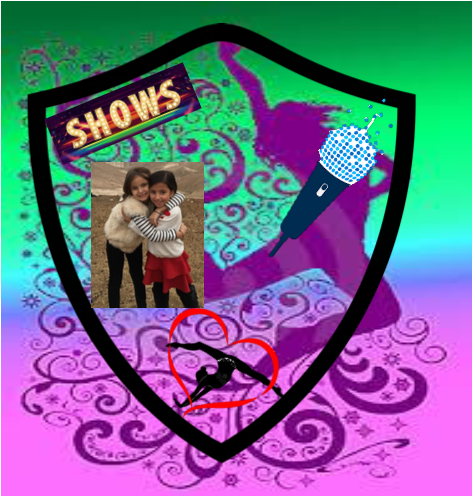
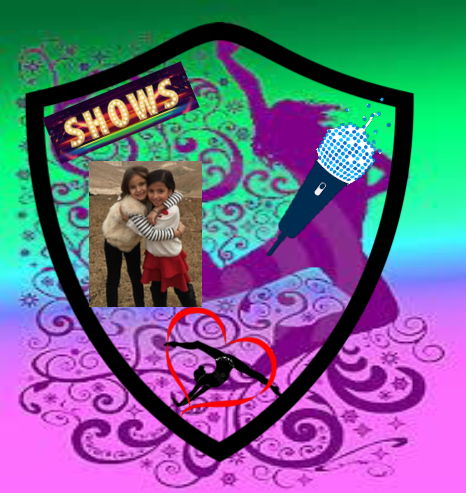
aja

diff --git a/Escudos/Escuado Abuela Elena/EscudoAbueElena.html b/Escudos/Escuado Abuela Elena/EscudoAbueElena.html
@@ -23,18 +23,18 @@ body,td,th {
 	font-family: "Times New Roman";
 }
 body {
-	background-image: url(../../../fondo-de-papel-viejo-de-la-vendimia-del-grunge_1373-431.jpg);
+	background-image: url("http://danalevy.github.io/Inicio/fondo-de-papel-viejo-de-la-vendimia-del-grunge_1373-431.jpg");
 }
 	-->
 	</STYLE>
+	<title>Abuela Elena</title>
 </HEAD>
 <BODY LANG="es-VE" DIR="LTR">
 <P STYLE="margin-bottom: 0.11in"><IMG SRC="EscudoAbueElena.png" NAME="Picture 7" ALIGN=BOTTOM WIDTH=636 HEIGHT=504 BORDER=0></P>
-<P STYLE="margin-bottom: 0.11in">&nbsp;</P>
-<table width="621" border="1">
+<table width="635" border="1">
   <tbody>
     <tr>
-      <td width="611"><p align="justify">Mi abuela Elena es la mujer más tranquila que conozco. Eso era lo que quería expresar al crear un escudo que la represente. Amante de los paisajes, enamorada de su país natal. Eso explica el fondo del escudo, un paisaje que quita el aliento cuando lo miras y que por supuesto pertenece al país que ella tanto ama.  Un don que ella tiene, es que nos hace sentir a cada uno de los que formamos parte de su familia que somos prioridad para ella. Por eso la foto familiar en el centro, sin ser ella el foco de esta. Ella se oculta entre la familia, evitando ser el centro de atención, sin embargo, representando la piedra fundamental de todos nosotros. Debajo de la foto se divisa la imagen de la Jalá, las velas y el vino, símbolos directos de lo que representa el Shabbat y las festividades judías. Mi abuela se esmera para que cada shabat, y cada festividad la disfrutemos y nos reunamos toda su familia.
+      <td width="625"><p align="justify">Mi abuela Elena es la mujer más tranquila que conozco. Eso era lo que quería expresar al crear un escudo que la represente. Amante de los paisajes, enamorada de su país natal. Eso explica el fondo del escudo, un paisaje que quita el aliento cuando lo miras y que por supuesto pertenece al país que ella tanto ama.  Un don que ella tiene, es que nos hace sentir a cada uno de los que formamos parte de su familia que somos prioridad para ella. Por eso la foto familiar en el centro, sin ser ella el foco de esta. Ella se oculta entre la familia, evitando ser el centro de atención, sin embargo, representando la piedra fundamental de todos nosotros. Debajo de la foto se divisa la imagen de la Jalá, las velas y el vino, símbolos directos de lo que representa el Shabbat y las festividades judías. Mi abuela se esmera para que cada shabat, y cada festividad la disfrutemos y nos reunamos toda su familia.
       
         </p>
         <p align="justify">En la parte superior del escudo coloqué dos cosas que mi abuela Elena ama hacer; el avión a mano izquierda representa viajar, eso es lo que más le gusta, quiere viajar y ver nuevos paisajes, pues es así (creo yo) que se conecta con D-os. Y en la parte superior derecha está la imagen de un libro, en las que sus páginas se juntan para formar un corazón. Creo que mejor explicada gráficamente no podría estar esta fotografía. Eso es lo que ella siente por la lectura.        </p>
@@ -43,8 +43,9 @@ body {
     </tr>
   </tbody>
 </table>
-<p><a href="https://danalevy.github.io/Biograf%C3%ADas/Biografia%20Mi%20Abuela%20Elena/BioAbueElena.html"><img src="../../links de escudos/libro.jpg" width="137" height="84" alt=""/ hspace="10"></a><a href=""><img src="../../links de escudos/bandera-venezuela.png" width="138" height="76" alt=""/ hspace="10"></a><a href="https://danalevy.github.io/Ancestros/Ancestros%20de%20mi%20Abuela%20Elena/Ancestros_de_mi_Abuela_Elena.html"><img src="../../links de escudos/huellas.jpg" width="118" height="144" alt=""/ hspace="10"></a></p>
 <p><a href="https://danalevy.github.io/Apellidos/Hartman.html">Origen del apellido</a></p>
+<p><a href="https://danalevy.github.io/Biografías/Biografia Mi Abuela Elena/BioAbueElena.html"><img src="../../links de escudos/libro.jpg" width="176" height="111" alt=""/ hspace="10"></a><a href="http://danalevy.github.io/Paises de Origen/Venezuela/VENEZUELA.html"><img src="../../links de escudos/bandera-venezuela.png" width="199" height="110" alt=""/ hspace="10"></a><a href="https://danalevy.github.io/Ancestros/Ancestros%20de%20mi%20Abuela%20Elena/Ancestros_de_mi_Abuela_Elena.html"><img src="../../links de escudos/huellas.jpg" width="118" height="144" alt=""/ hspace="10"></a></p>
+<p><a href="https://danalevy.github.io/Apellidos/Hartman.html"></a></p>
 <p>&nbsp;</p>
 <P STYLE="margin-bottom: 0.11in">&nbsp;</P>
 </BODY>

diff --git a/Escudos/Escudo Analy/escudoanaly.html b/Escudos/Escudo Analy/escudoanaly.html
@@ -2,25 +2,25 @@
 <HTML>
 <HEAD>
 	<META HTTP-EQUIV="Content-Type" CONTENT="text/html; charset=utf-8">
-	<TITLE></TITLE>
-
-	</STYLE>
+<title>Analy</title>
 <style type="text/css">
 body {
-	background-image: url(../../../fondo-de-papel-viejo-de-la-vendimia-del-grunge_1373-431.jpg);
+	background-image: url("http://danalevy.github.io/Inicio/fondo-de-papel-viejo-de-la-vendimia-del-grunge_1373-431.jpg");
 }
 </style>
 </HEAD>
 <BODY LANG="en-US" DIR="LTR">
-<P STYLE="margin-bottom: 0in"><IMG SRC="escudoanaly.png" NAME="Picture 1" ALIGN=BOTTOM WIDTH=400 HEIGHT=422 BORDER=0> <a href="https://danalevy.github.io/Biograf%C3%ADas/Biografia%20Mi%20hermanita%20Analy/Biografia_Mi_hermanita_Analy.html"><img src="../../links de escudos/libro.jpg" width="160" height="106" alt=""/ hspace="10"></a></P>
+<P STYLE="margin-bottom: 0in"><IMG SRC="escudoanaly.png" NAME="Picture 1" ALIGN=BOTTOM WIDTH=503 HEIGHT=508 BORDER=0></P>
 <P STYLE="margin-bottom: 0in">&nbsp;</P>
-<table width="400" border="1">
+<table width="512" border="1">
   <tbody>
     <tr>
-      <td width="390"><p>Para realizar el escudo de Analy, escogí un fondo colorido, pues siento que así es ella: llena de vida y color. Una niña que le encanta el baile y se mueve al ritmo todo el día, además de realizar rondadas por cada paso que da, y esto lo hace porque le encanta practicar gimnasia, su disciplina deportiva favorita. Podrán notar el cartel que dice show y esto es porque Analy está todo el día montando espectáculos para entretener a sus familiares, siempre provista del micrófono, que sin él no da gracia cantar y actuar. Ahora bien hay que entender que Analy no realiza estas actividades, si su prima Olga no las hace con ella. Olga es su persona favorita en este mundo. Con ella comparte y realiza todas las actividades descritas antes.</p></td>
+      <td width="502"><p align="justify">Para realizar el escudo de Analy, escogí un fondo colorido, pues siento que así es ella: llena de vida y color. Una niña que le encanta el baile y se mueve al ritmo todo el día, además de realizar rondadas por cada paso que da, y esto lo hace porque le encanta practicar gimnasia, su disciplina deportiva favorita. Podrán notar el cartel que dice show y esto es porque Analy está todo el día montando espectáculos para entretener a sus familiares, siempre provista del micrófono, que sin él no da gracia cantar y actuar. Ahora bien hay que entender que Analy no realiza estas actividades, si su prima Olga no las hace con ella. Olga es su persona favorita en este mundo. Con ella comparte y realiza todas las actividades descritas antes.</p></td>
     </tr>
   </tbody>
 </table>
+<p style="margin-bottom: 0in"><a href="http://danalevy.github.io/Biografías/Biografia Mi hermanita Analy/Biografia_Mi_hermanita_Analy.html"><img src="../../links de escudos/libro.jpg" width="163" height="116" alt=""/ hspace="10"></a>
+</p>
 <P STYLE="margin-bottom: 0in">&nbsp;</P>
 <p>&nbsp;</p>
 </BODY>

diff --git a/Escudos/Escudo Abuelo Arie/escudoabuearie.html b/Escudos/Escudo Abuelo Arie/escudoabuearie.html
@@ -2,17 +2,20 @@
 <HTML>
 <HEAD>
 	<META HTTP-EQUIV="CONTENT-TYPE" CONTENT="text/html; charset=utf-8">
-	<TITLE></TITLE>
-
-	</STYLE>
+<title>Abuelo Arie</title>
+<style type="text/css">
+body {
+	background-image: url("http://danalevy.github.io/Inicio/fondo-de-papel-viejo-de-la-vendimia-del-grunge_1373-431.jpg");
+}
+</style>
 </HEAD>
 <BODY LANG="en-US" DIR="LTR">
-<P STYLE="margin-bottom: 0in"><IMG SRC="escudoabuearie.png" NAME="Picture 1" ALIGN=BOTTOM WIDTH=397 HEIGHT=464 BORDER=0></P>
+<P STYLE="margin-bottom: 0in"><IMG SRC="escudoabuearie.png" NAME="Picture 1" ALIGN=BOTTOM WIDTH=438 HEIGHT=511 BORDER=0></P>
 <P STYLE="margin-bottom: 0in">&nbsp;</P>
-<table width="416" border="1">
+<table width="515" border="1">
   <tbody>
     <tr>
-      <td width="406"><p align="justify">Mi abuelo Arie es un hombre transparente. Tanto que no fue difícil descubrir cuáles son sus pasiones para poder plasmarlas en su escudo.</p>
+      <td width="505"><p align="justify">Mi abuelo Arie es un hombre transparente. Tanto que no fue difícil descubrir cuáles son sus pasiones para poder plasmarlas en su escudo.</p>
         <p align="justify"><br>
         En el centro del escudo se encuentra su imagen, no una cualquiera una que representa su esencia: él es un Yehudí, un hombre que lleva su vida enalteciendo el nombre de D-os  y por esa razón se ha convertido en bendición para muchos, o mejor dicho para muchas pues, se puede deducir por las imágenes, que él es médico, por eso la presencia del estetoscopio. La imagen de la mujer embarazada, representa su especialidad: él es Ginecólogo obstetra. Esa es su gran Amor: Su trabajo. La dedicación y tiempo que le procura a su profesión es digno de admirar, es una inspiración para los que lo conocemos, pues nos enseña que es posible vivir la vida plenamente si uno hace lo que le apasiona y si realizamos las cosas con la convicción de que somos emisarios de D-os  (como las hace mi abuelo) sólo de esa manera seremos capaces de experimentar el placer de vivir. </p>
         <p align="justify"><br>
@@ -20,6 +23,9 @@
     </tr>
   </tbody>
 </table>
+<p>&nbsp;</p>
+<p><a href="https://danalevy.github.io/Apellidos/Hartman.html">Origen del apellido</a></p>
+<p><a href="https://danalevy.github.io/Biografías/Biografia Mi Abuela Elena/BioAbueElena.html"><img src="../../links de escudos/libro.jpg" width="176" height="111" alt=""/ hspace="10"></a><a href="http://danalevy.github.io/Paises de Origen/Venezuela/VENEZUELA.html"><img src="../../links de escudos/bandera-venezuela.png" width="199" height="110" alt=""/ hspace="10"></a><a href="https://danalevy.github.io/Ancestros/Ancestros%20de%20mi%20Abuela%20Elena/Ancestros_de_mi_Abuela_Elena.html"><img src="../../links de escudos/huellas.jpg" width="118" height="144" alt=""/ hspace="10"></a></p>
 <P STYLE="margin-bottom: 0in">&nbsp;</P>
 <p>&nbsp;</p>
 </BODY>

diff --git a/Escudos/Escudo Abuelo Nico/escudoabuenico.html b/Escudos/Escudo Abuelo Nico/escudoabuenico.html
@@ -1,0 +1,29 @@
+<!DOCTYPE HTML PUBLIC "-//W3C//DTD HTML 4.0 Transitional//EN">
+<HTML>
+<HEAD>
+	<META HTTP-EQUIV="CONTENT-TYPE" CONTENT="text/html; charset=utf-8">
+<title>Abuelo Nico</title>
+<style type="text/css">
+body {
+	background-image: url("http://danalevy.github.io/Inicio/fondo-de-papel-viejo-de-la-vendimia-del-grunge_1373-431.jpg");
+}
+</style>
+</HEAD>
+<BODY LANG="en-US" DIR="LTR">
+<P STYLE="margin-bottom: 0in"><IMG SRC="escudoabuenico.png" NAME="Picture 1" ALIGN=BOTTOM WIDTH=488 HEIGHT=446 BORDER=0></P>
+<P STYLE="margin-bottom: 0in">&nbsp;</P>
+<table width="487" border="1">
+  <tbody>
+    <tr>
+      <td width="477" height="333"><p align="justify">Desde que tengo noción de lo que pasa a mi alrededor, recuerdo a mi abuelo en Hebraica. Por eso coloqué la imagen del Club al fondo. Ahí es donde le gustaba estar, donde realizaba todas sus actividades, en especial la de jugar barajas, lo que hacía cada vez que podía. Por eso la fotografía que decidí mostrar de mi abuelo es la de él con un fajo de naipes sobre la mesa. Mi Abuelo Z&rdquo;L era un hombre muy sencillo, disfrutaba la vida de manera simple. Por eso no recargue el escudo. Sin embargo, no podía dejar de colocar las cosas que el disfrutaba de verdad: le encantaba escuchar el Jazz, era un extraordinario bailarín de Rock and Roll y disfrutaba mucho ver películas viejas, en especial Casablanca. Abajo en el centro hay una imagen de un hombre trotando. Yo particularmente no conocí a mi abuelo en la época en la que trotaba, pero me contó mi abuela que él dedicaba mucho tiempo a este deporte, y por su gran habilidad ganó muchos premios en esta categoría.</p>
+        <p align="justify"><br>
+      Así recuerdo a mi abuelo, siempre paseando por Hebraica. Cuesta un poco no poder verlo tendido en una silla de extensión tomando una siestita.</p></td>
+    </tr>
+  </tbody>
+</table>
+<p><a href="https://danalevy.github.io/Apellidos/Hartman.html">Origen del apellido</a></p>
+<p><a href="https://danalevy.github.io/Biografías/Biografia Mi Abuela Elena/BioAbueElena.html"><img src="../../links de escudos/libro.jpg" width="176" height="111" alt=""/ hspace="10"></a><a href="http://danalevy.github.io/Paises de Origen/Venezuela/VENEZUELA.html"><img src="../../links de escudos/bandera-venezuela.png" width="199" height="110" alt=""/ hspace="10"></a><a href="https://danalevy.github.io/Ancestros/Ancestros%20de%20mi%20Abuela%20Elena/Ancestros_de_mi_Abuela_Elena.html"><img src="../../links de escudos/huellas.jpg" width="118" height="144" alt=""/ hspace="10"></a></p>
+<P STYLE="margin-bottom: 0in">&nbsp;</P>
+<p>&nbsp;</p>
+</BODY>
+</HTML>

diff --git a/Escudos/Escudo Abuela Sarina/escabuesarina.html b/Escudos/Escudo Abuela Sarina/escabuesarina.html
@@ -2,22 +2,21 @@
 <html>
 <head>
 <meta charset="utf-8">
-<title>Untitled Document</title>
+<title>Abuela Sarina</title>
 <style type="text/css">
 body {
-	background-image: url(../../../fondo-de-papel-viejo-de-la-vendimia-del-grunge_1373-431.jpg);
+	background-image: url("http://danalevy.github.io/Inicio/fondo-de-papel-viejo-de-la-vendimia-del-grunge_1373-431.jpg");
 }
 </style>
 </head>
 
 <body>
-<p><img src="EscAbueSarina.jpg" width="600" height="596" alt=""/></p>
-<p>(Ancestros)</p>
-<p><a href="https://danalevy.github.io/Ancestros/Ancestros%20de%20mi%20Abuela%20Sarina/Ancestros_de_mi_Abuela_Sarina.html"><img src="../../links de escudos/sanacion-ancestros-madrid.jpg" width="147" height="88" alt=""/></a></p>
-<p><a href="https://danalevy.github.io/Biograf%C3%ADas/Biografia%20Mi%20Abuela%20Sarina/BioAbueSarina.html">><img src="../../links de escudos/libro.jpg" width="145" height="111" alt=""/></a> </p>
+<p><img src="EscAbueSarina.jpg" width="661" height="655" alt=""/></p>
+<p>&nbsp;</p>
+<p><a href="https://danalevy.github.io/Apellidos/Avram.html">Origen de apellido</a></p>
+<p><a href="https://danalevy.github.io/Ancestros/Ancestros%20de%20mi%20Abuela%20Sarina/Ancestros_de_mi_Abuela_Sarina.html"><img src="../../links de escudos/sanacion-ancestros-madrid.jpg" width="230" height="137" alt="Ancestros" hspace="10"/></a><a href="https://danalevy.github.io/Biograf%C3%ADas/Biografia%20Mi%20Abuela%20Sarina/BioAbueSarina.html"><img src="../../links de escudos/libro.jpg" width="180" height="137" alt="" hspace="10"/></a><a href="http://danalevy.github.io/Paises de Origen/Alemania/ALEMANIA.html"><img src="../../links de escudos/Germany-Flag.jpg" width="204" height="137" alt="" hspace="10"/></a></p>
+<p>  (Ancestros)</p>
 <p><img src="../../links de escudos/huellas.jpg" width="112" height="131" alt=""/></p>
-<p><img src="../../links de escudos/Germany-Flag.jpg" width="122" height="83" alt=""/></p>
-<p><a href="https://danalevy.github.io/Apellidos/Avram.html"> Origen de apellido</a></p>
 <p>&nbsp;</p>
 <table width="599" border="1">
   <tbody>
